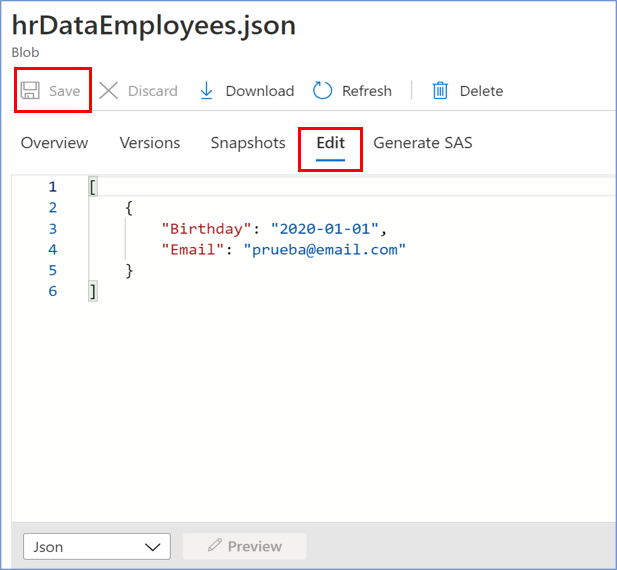
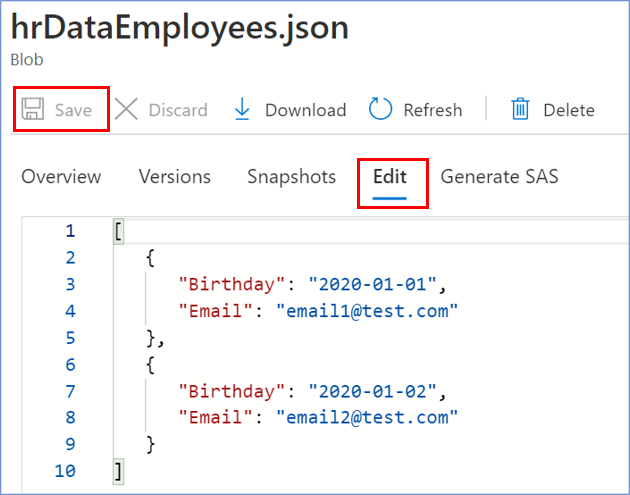
[Documentation] Change step for json file creation (#50)
* Change step for json file creation

* Improve the code snippet and add a note

* Improve step and update image

diff --git a/docs/Blobstorage&Container.md b/docs/Blobstorage&Container.md
@@ -22,10 +22,25 @@ Finally, we select **Review + Create** to review your Storage Account settings a
      ![Storage account](images/add-container.png)
 
 1. Finally we need to upload a file to the **hr-data-container** container, as follows:
-     1. Download the **hrDataEmployees.json** file from this <a id="raw-url" href="https://raw.githubusercontent.com/southworks/azure-botsdk-happybirthday-bamboohr-slack-bot/nvila/update-documentation/docs/resources/hrDataEmployees.json">link</a>.
+
+     1. Create a json file with the name of **hrDataEmployees.json** with the following content:
+          ```json
+          [
+               {
+                "Birthday": "2020-01-01",
+                "Email": "email1@test.com"
+               },
+               {
+                "Birthday": "2020-01-02",
+                "Email": "email2@test.com"
+               }
+          ]
+          ```
+          > This **code snippet** is a base template of the json file where birthdays are loaded, which will be modified in a personalized way. In the parameter `Birthday` the date of birth is loaded with the format **yyyy-mm-dd**, and in the parameter `Email` the corresponding email is loaded.
+
      1. From our container **hr-data-container**, click on **Upload**.  
      ![Storage account](images/upload-file.png)
-     1. We **select** the file that we downloaded in step 1.
+     1. We **select** the file that we created in step 1.
      1. To finish the upload, click on **Upload**.  
      ![Storage account](images/upload-file-choosed.png)
 
